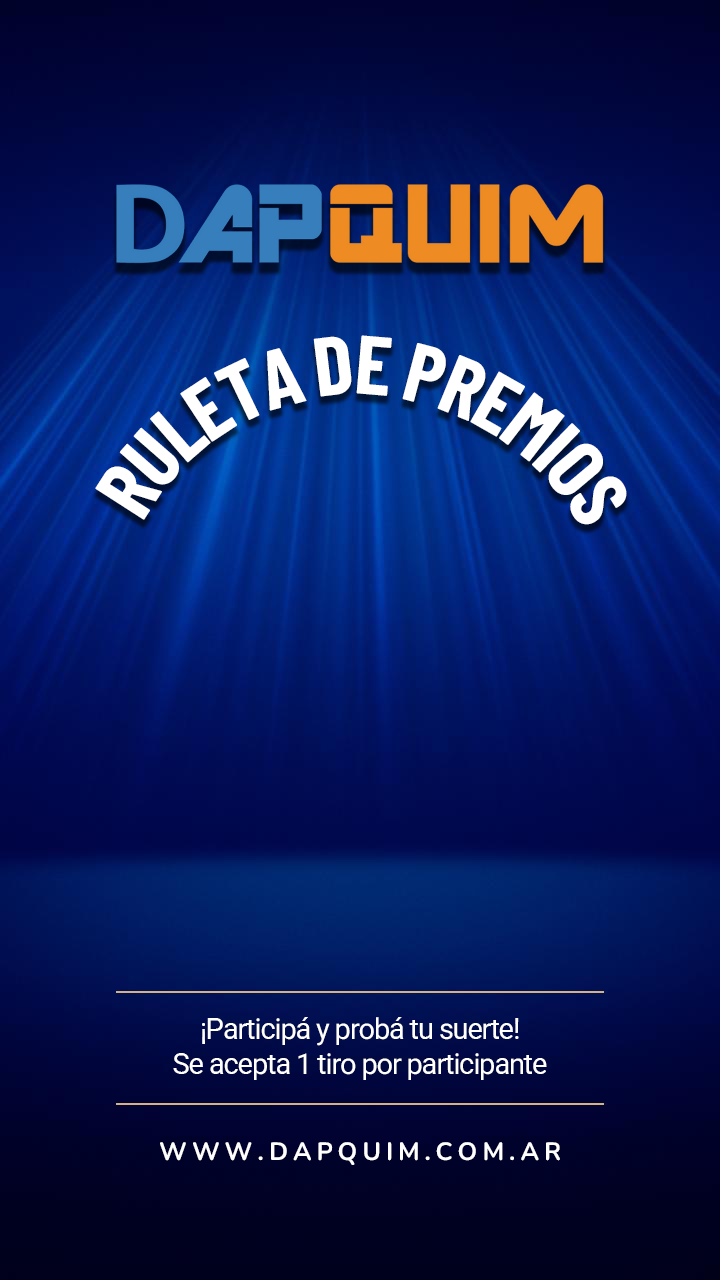
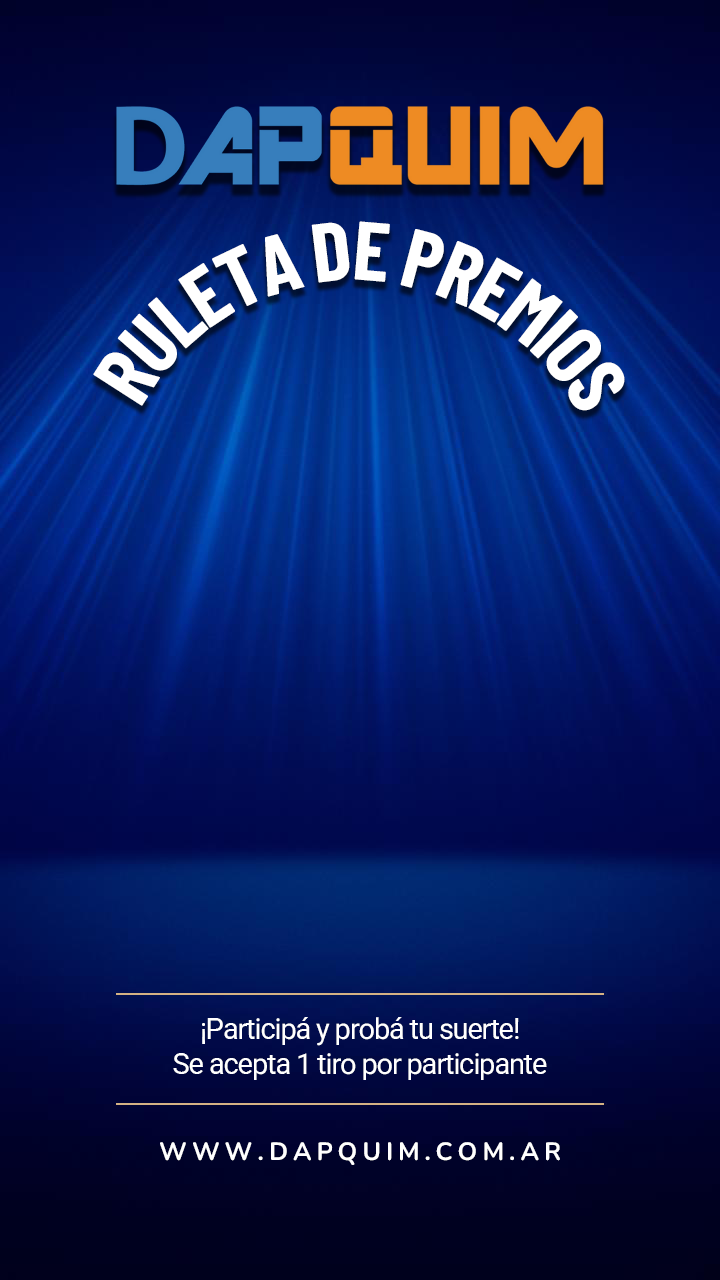
cambio estetico en el fondo, se agrando la ruleta

Changed region(s): [[0.1222, 0.0625, 0.8861, 0.4375]]

diff --git a/style/style.css b/style/style.css
@@ -93,8 +93,8 @@ body {
 
 .ruleta-container {
     position: relative;
-    width: 480px;
-    height: 480px;
+    width: 600px;
+    height: 600px;
     display: flex;
     justify-content: center;
     align-items: center;
